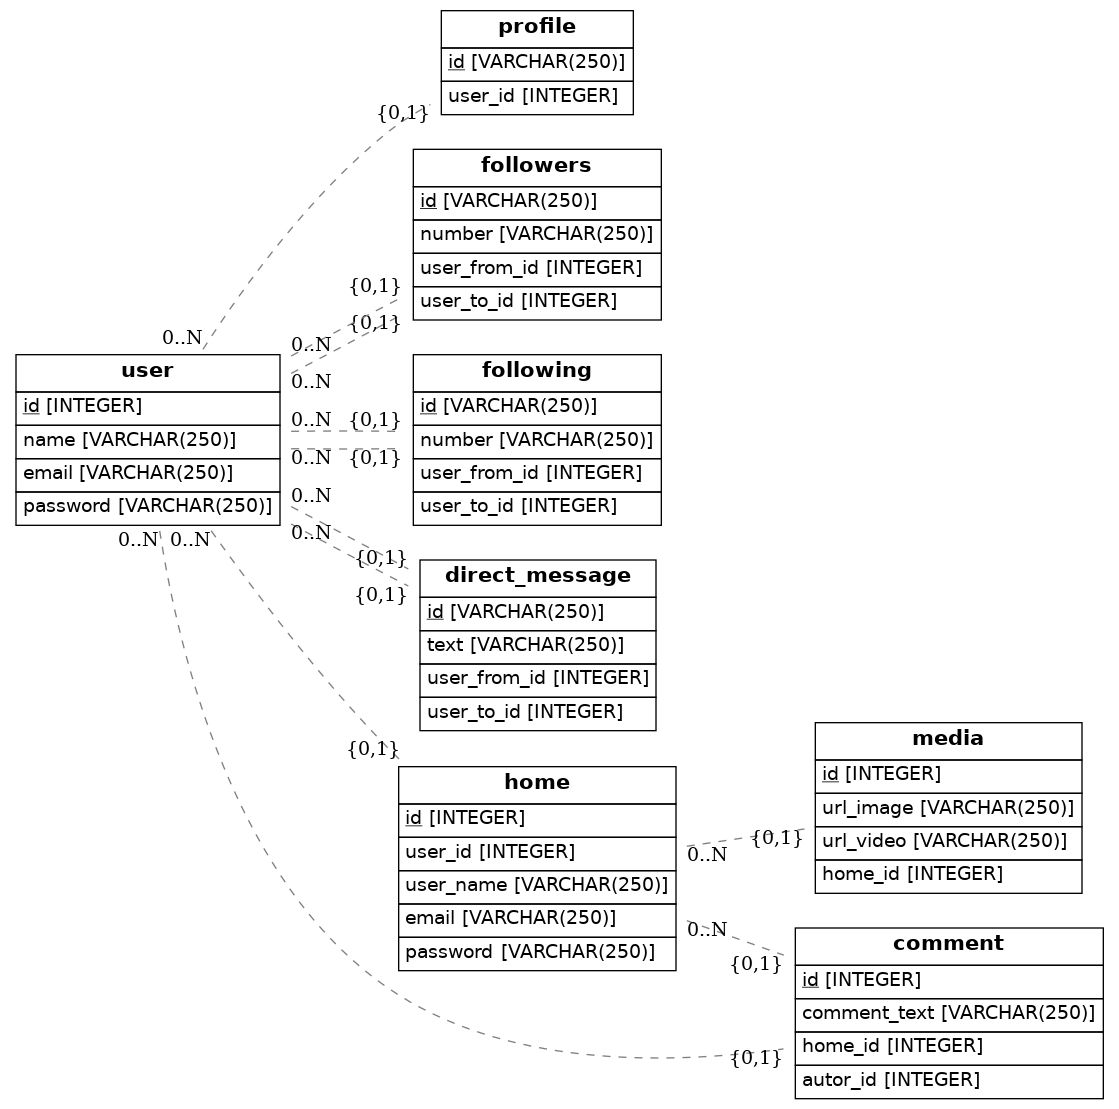
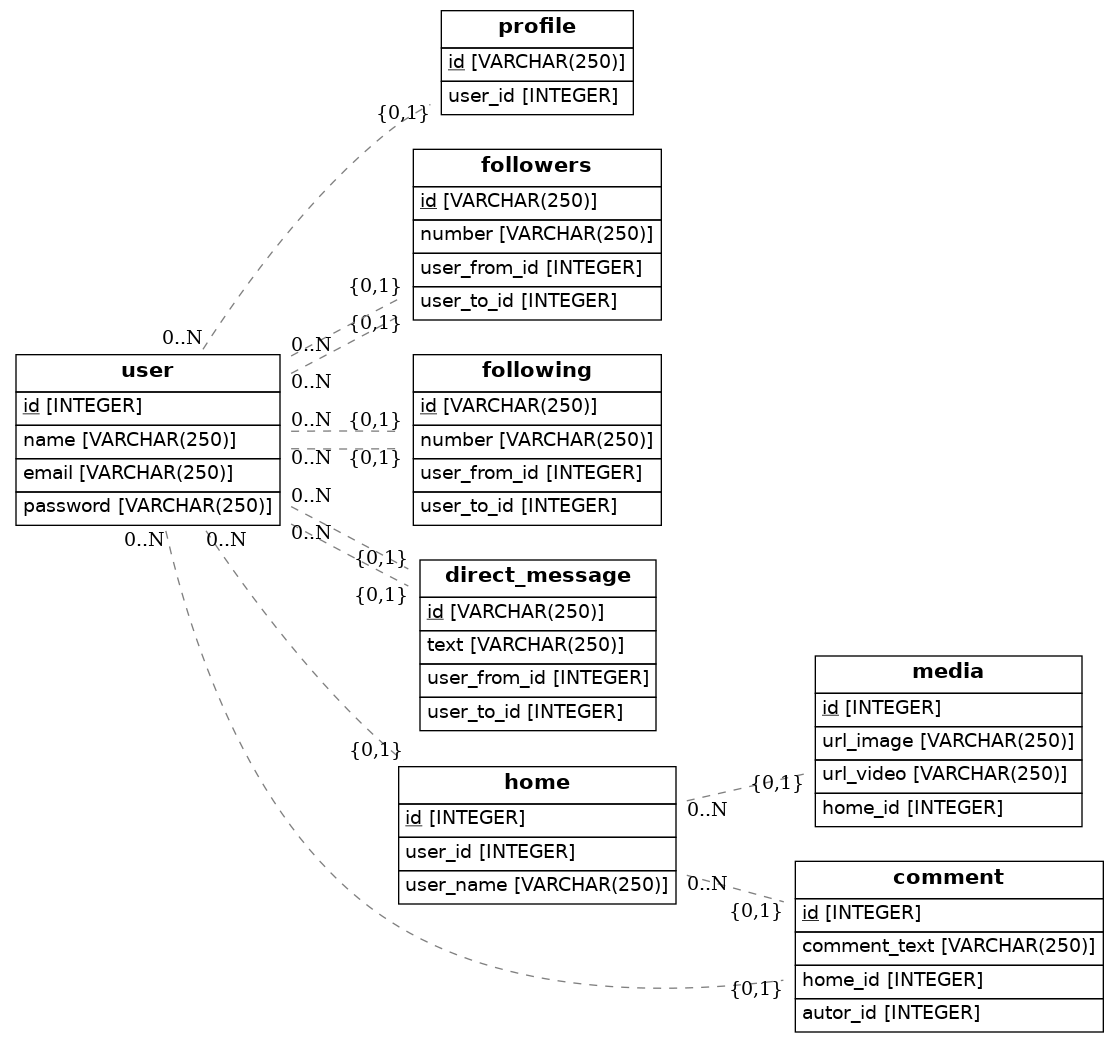
listo 2

Changed region(s): [[0.0, 0.0, 1.0, 1.0]]

diff --git a/src/models.py b/src/models.py
@@ -52,8 +52,6 @@ class Home(Base):
     user = relationship("user", back_populates="children")
     user_id = Column(Integer, ForeignKey("user.id"))
     user_name=Column(String(250), nullable=False)
-    email=Column(String(250), nullable=False)
-    password=Column(String(250), nullable=False)
 
 class Media(Base):
     __tablename__ = 'media'
